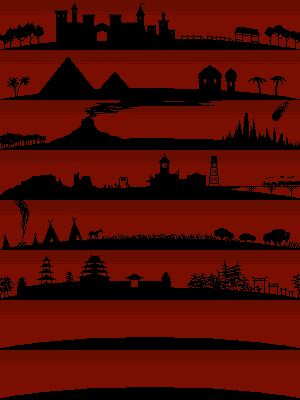
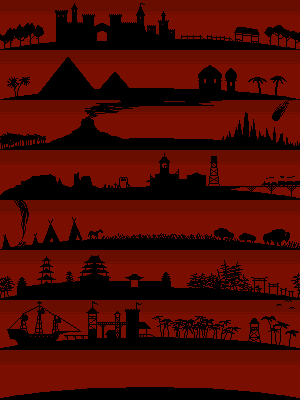
added level 7 - pirates and swashbucklers

Changed region(s): [[0.03, 0.75, 0.99, 0.87], [0.96, 0.75, 0.99, 0.78]]

diff --git a/lib/game/scenes/level-selection.js b/lib/game/scenes/level-selection.js
@@ -22,8 +22,8 @@ ig.module(
                 new ig.TouchButton( 'level-4', {left: 'center', bottom: 'center', offset: {x: -35, y:   0}}, 30, 30, new ig.Image( 'media/buttons/selection-tile-4.png' ) ),
                 new ig.TouchButton( 'level-5', {left: 'center', bottom: 'center', offset: {x:  35, y:   0}}, 30, 30, new ig.Image( 'media/buttons/selection-tile-5.png' ) ),
                 new ig.TouchButton( 'level-6', {left: 'center', bottom: 'center', offset: {x: -35, y:  35}}, 30, 30, new ig.Image( 'media/buttons/selection-tile-6.png' ) ),
-                new ig.TouchButton( 'level-7', {left: 'center', bottom: 'center', offset: {x:   0, y:  35}}, 30, 30, new ig.Image( 'media/buttons/selection-tile-0.png' ) ),
-                new ig.TouchButton( 'level-8', {left: 'center', bottom: 'center', offset: {x:  35, y:  35}}, 30, 30, new ig.Image( 'media/buttons/selection-tile-0.png' ) ),
+                new ig.TouchButton( 'level-7', {left: 'center', bottom: 'center', offset: {x:   0, y:  35}}, 30, 30, new ig.Image( 'media/buttons/selection-tile-7.png' ) ),
+                new ig.TouchButton( 'level-8', {left: 'center', bottom: 'center', offset: {x:  35, y:  35}}, 30, 30, new ig.Image( 'media/buttons/selection-tile-8.png' ) ),
                 new ig.TouchButton( 'back', {right: 10, bottom: 10}, 50, 19, new ig.Image( 'media/buttons/back.png' ) ),
             ]);
             this.buttons.align();
@@ -51,6 +51,12 @@ ig.module(
             }
             if ( ig.input.released('level-6') ) {
                 ig.system.setGame( Level6 );
+            }
+            if ( ig.input.released('level-7') ) {
+                ig.system.setGame( Level7 );
+            }
+            if ( ig.input.released('level-8') ) {
+                //ig.system.setGame( Level8 );
             }
             
             // if "Back" button is pressed

diff --git a/lib/game/entities/enemies/pirate.js b/lib/game/entities/enemies/pirate.js
@@ -1,0 +1,49 @@
+ig.module(
+    'game.entities.enemies.pirate'
+)
+.requires(
+    'impact.entity',
+    'impact.entity-pool',
+    'game.entities.enemies.shooter',
+    'game.entities.enemies.pirate-bullet'
+)
+.defines(function() {
+    EntityPirate = EntityShooter.extend({
+        
+        animSheet: new ig.AnimationSheet( 'media/pirate.png', 16, 16 ),
+        
+        init: function( x, y, settings ) {
+            this.parent( x, y, settings );
+        },
+        
+        // add custom entity animations
+        addAnimations: function() {
+            this.addAnim( 'idle', 1.0, [0], true );
+            this.addAnim( 'walk', 0.2, [1, 2] );
+            this.addAnim( 'attack', 0.5, [3, 3, 4], true );
+            this.addAnim( 'hurt', 0.1, [5, 5, 5], true );
+            this.addAnim( 'dead', 0.1, [5, 6, 6], true );
+        },
+        
+        // resurrect this entity from the entity pool (pooling enabled below)
+        reset: function( x, y, settings ) {
+            this.parent( x, y, settings );
+            this.prepareEntity();
+        },
+        
+        // check if spawning bullet entity
+        checkAttacking: function() {
+            if ( ! this.hasAttacked ) {
+                if ( this.currentAnim.frame == 2 ) {
+                    this.hasAttacked = true;
+                    var xPos = this.pos.x + ( this.flip ? -4 : 12 );
+                    var yPos = this.pos.y;
+                    ig.game.spawnEntity( EntityPirateBullet, xPos, yPos );
+                }
+            }
+        },
+        
+    });
+    
+    ig.EntityPool.enableFor( EntityPirate );
+});

diff --git a/lib/game/entities/enemies/swashbuckler.js b/lib/game/entities/enemies/swashbuckler.js
@@ -1,0 +1,36 @@
+ig.module(
+    'game.entities.enemies.swashbuckler'
+)
+.requires(
+    'impact.entity',
+    'impact.entity-pool',
+    'game.entities.enemies.soldier'
+)
+.defines(function() {
+    EntitySwashbuckler = EntitySoldier.extend({
+        
+        animSheet: new ig.AnimationSheet( 'media/swashbuckler.png', 16, 16 ),
+        
+        init: function( x, y, settings ) {
+            this.parent( x, ( y - this.size.y ), settings );
+        },
+        
+        // add custom entity animations
+        addAnimations: function() {
+            this.addAnim( 'idle', 1.0, [0], true );
+            this.addAnim( 'walk', 0.2, [1, 2] );
+            this.addAnim( 'attack', 0.5, [3, 4] );
+            this.addAnim( 'hurt', 0.1, [5, 5, 5], true );
+            this.addAnim( 'dead', 0.1, [5, 6, 6], true );
+        },
+        
+        // resurrect this entity from the entity pool (pooling enabled below)
+        reset: function( x, y, settings ) {
+            this.parent( x, ( y - this.size.y ), settings );
+            this.prepareEntity();
+        },
+        
+    });
+    
+    ig.EntityPool.enableFor( EntitySwashbuckler );
+});

diff --git a/lib/game/scenes/level-7.js b/lib/game/scenes/level-7.js
@@ -1,0 +1,38 @@
+ig.module(
+    'game.scenes.level-7'
+)
+.requires(
+    'game.scenes.base-level',
+    'game.entities.enemies.swashbuckler',
+    'game.entities.enemies.pirate'
+)
+.defines(function() {
+
+    //
+    // --------------------------------------------------------------------------
+    // Level 7
+    // Golden Age of Piracy: Pirate and Swashbuckler
+    // --------------------------------------------------------------------------
+    //
+    Level7 = BaseLevel.extend({
+        
+        skyline: 7,
+        levelCode: 'level_7',
+        
+        // initialize your game here
+        init: function() {
+            this.parent();
+        },
+        
+        // spawn shooter type enemy
+        spawnEnemyShooter: function( x, y ) {
+            ig.game.spawnEntity( EntityPirate, x, y );
+        },
+        
+        // spawn shooter type enemy
+        spawnEnemySoldier: function( x, y ) {
+            ig.game.spawnEntity( EntitySwashbuckler, x, y );
+        },
+        
+    });
+});

diff --git a/lib/game/entities/enemies/pirate-bullet.js b/lib/game/entities/enemies/pirate-bullet.js
@@ -1,0 +1,26 @@
+ig.module(
+	'game.entities.enemies.pirate-bullet'
+)
+.requires(
+	'impact.entity',
+    'impact.entity-pool',
+    'game.entities.enemies.shooter-bullet'
+)
+.defines(function() {
+    EntityPirateBullet = EntityShooterBullet.extend({
+        
+        animSheet: new ig.AnimationSheet( 'media/shooter-bullet.png', 3, 3 ),
+        
+        init: function( x, y, settings ) {
+            this.parent( x, y, settings );
+        },
+        
+        // resurrect this entity from the entity pool
+        reset: function( x, y, settings ) {
+            this.parent( x, y, settings );
+            this.prepareEntity();
+        },
+    });
+    
+    ig.EntityPool.enableFor( EntityPirateBullet );
+});

diff --git a/lib/game/main.js b/lib/game/main.js
@@ -16,6 +16,7 @@ ig.module(
     'game.scenes.level-4',
     'game.scenes.level-5',
     'game.scenes.level-6',
+    'game.scenes.level-7',
     'game.entities.skyline',
     'game.entities.giant-crab',
     'game.entities.player',
